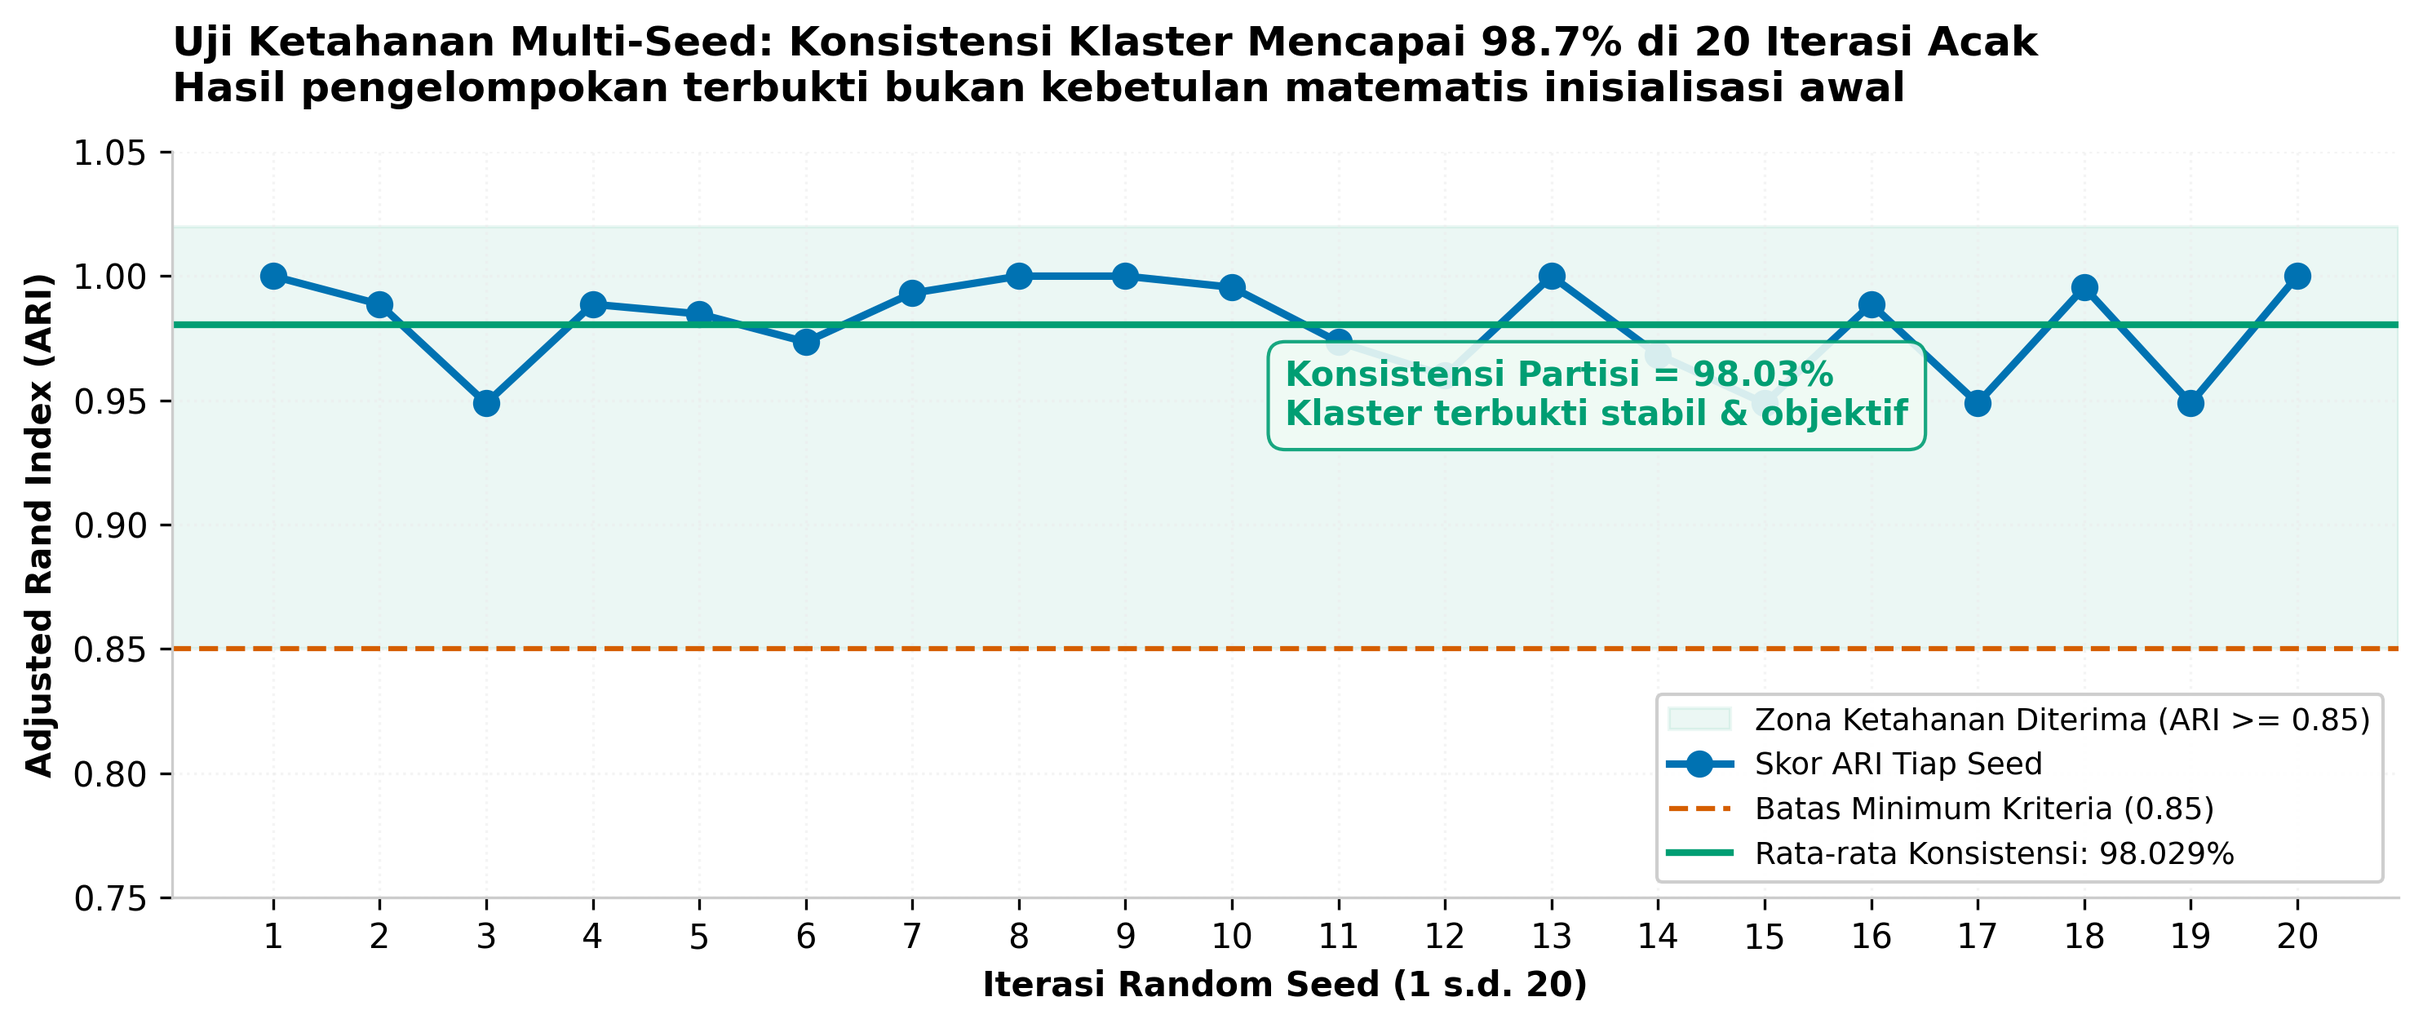
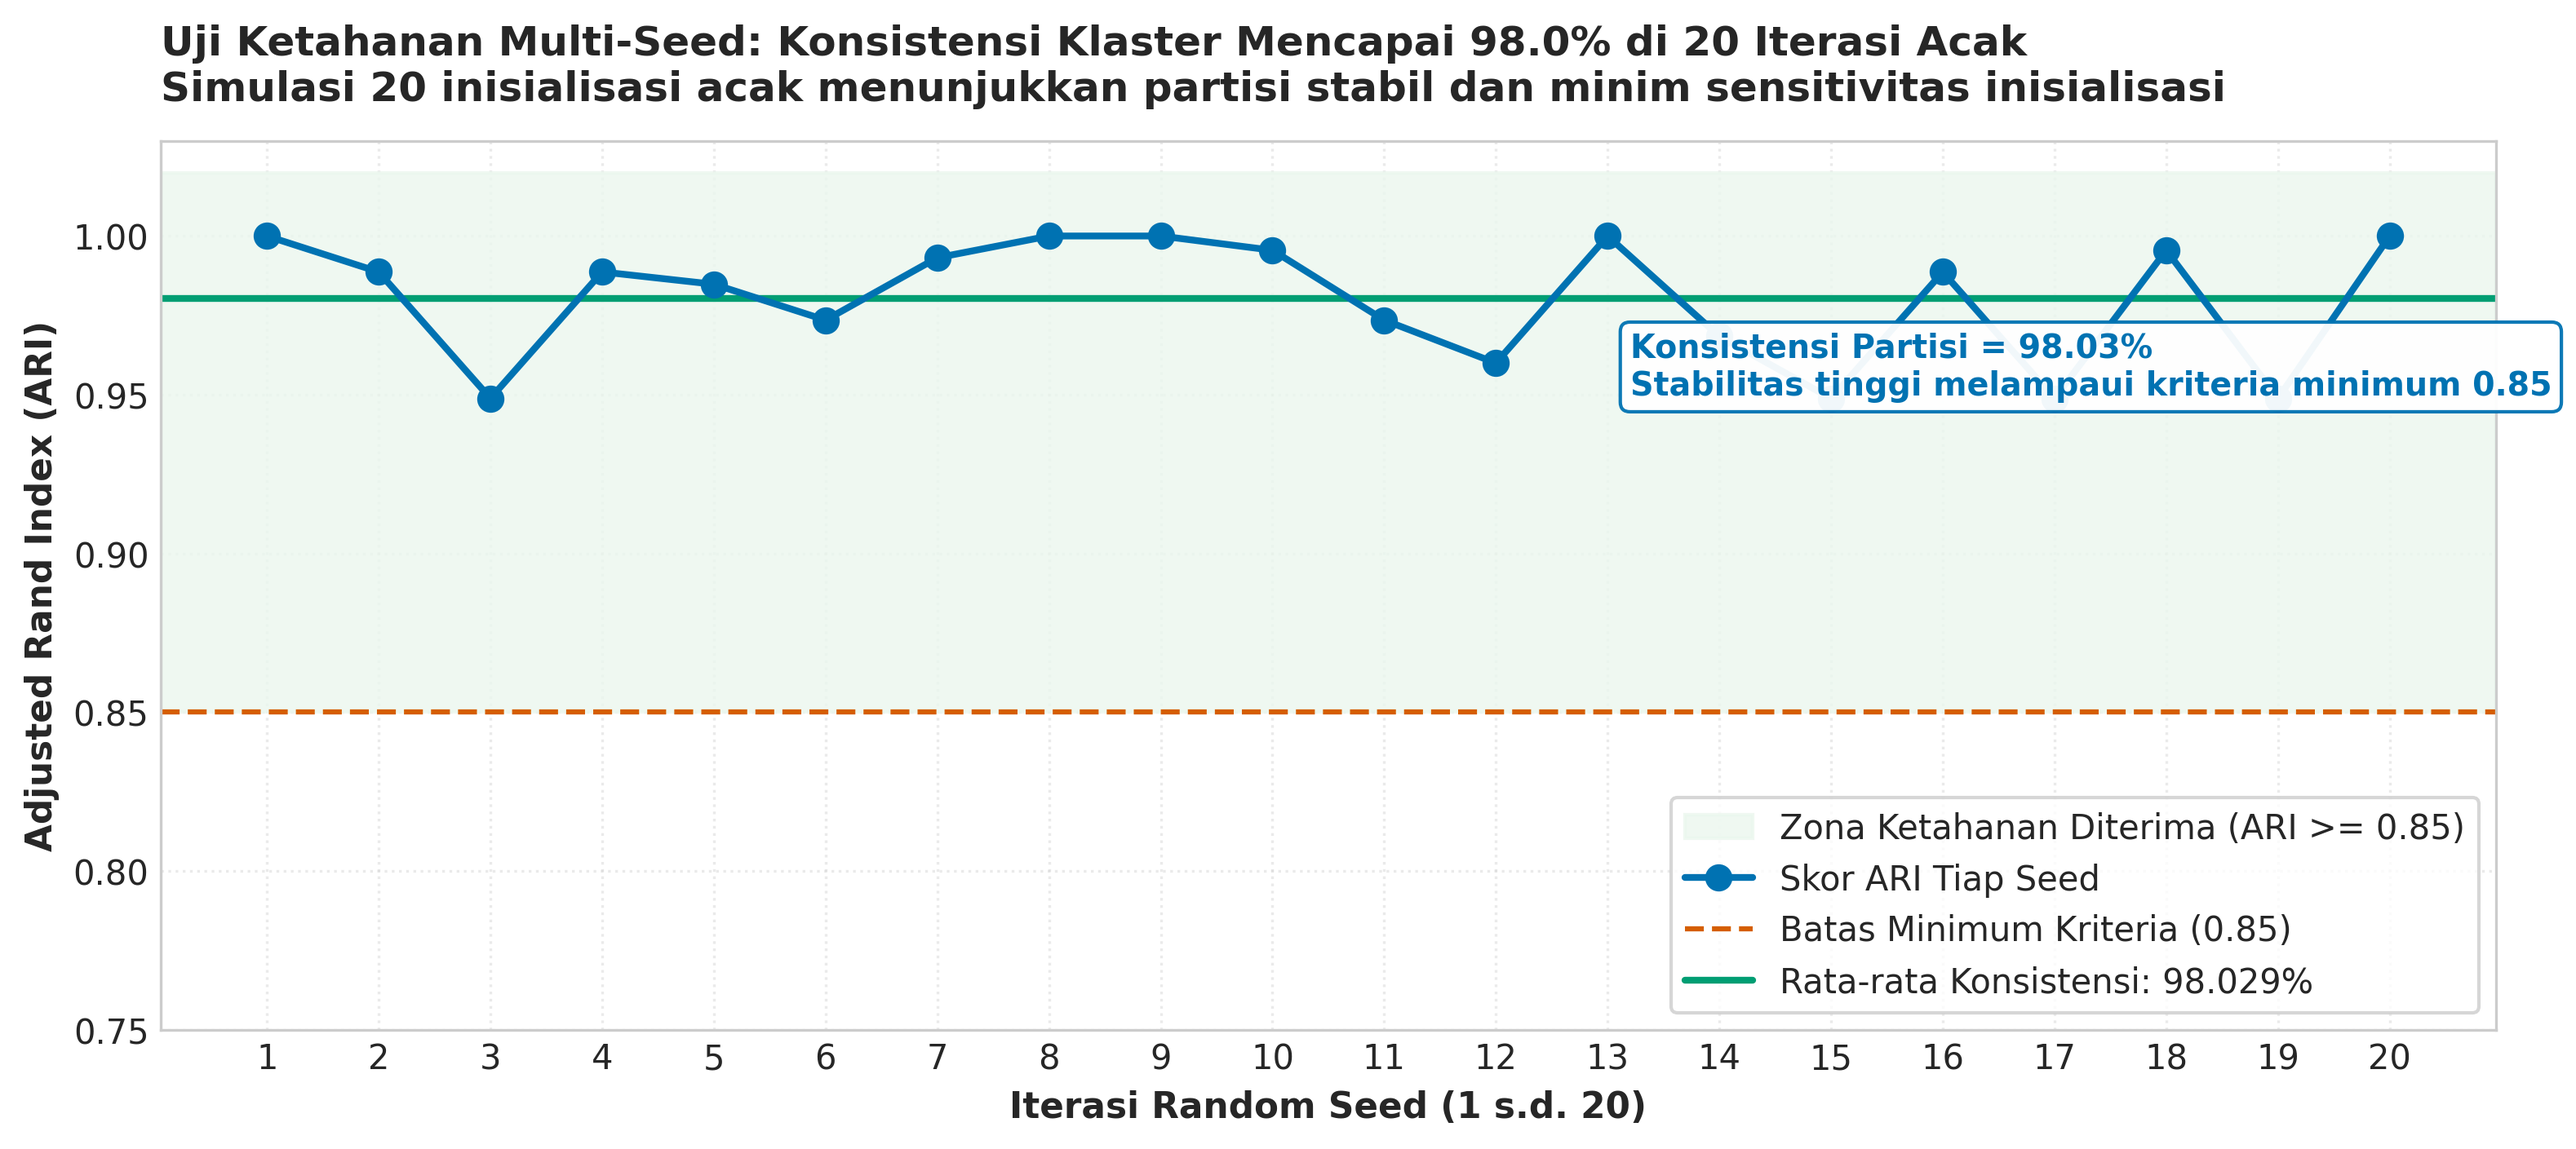
style(viz): calibrate figure annotations with anti-overclaim epistemic standards and reproduce plots

diff --git a/src/poverty_radar/visualization/plots.py b/src/poverty_radar/visualization/plots.py
@@ -45,14 +45,14 @@ def plot_elbow_and_silhouette(X_scaled: np.ndarray, save_path: Optional[Path] = 
         sil_km.append(silhouette_score(X_scaled, km.labels_))
 
     fig, (ax1, ax2) = plt.subplots(1, 2, figsize=(15, 6.2), dpi=300)
-    fig.suptitle('Penentuan Jumlah Klaster Optimal (k = 4): Titik Kompromi Elbow & Keseimbangan Wilayah',
+    fig.suptitle('Penentuan Jumlah Klaster (k = 4): Evaluasi Titik Belok Inersia & Keseimbangan Partisi',
                  fontsize=14, fontweight='bold', x=0.04, y=0.98, ha='left')
 
     # Panel 1: Elbow
     ax1.plot(k_range, inertia_km, marker='o', markersize=8, color='#0072B2', linewidth=2.5)
     ax1.axvline(x=4, color='#D55E00', linestyle='--', linewidth=1.5, alpha=0.85)
     ax1.scatter([4], [inertia_km[2]], color='#D55E00', s=140, zorder=5, edgecolor='black', linewidth=1.2)
-    ax1.annotate('Titik Belok Optimal (k = 4)\nPenurunan varians melandai tegas',
+    ax1.annotate('Titik Belok Elbow (k = 4)\nLaju penurunan inersia mulai melandai',
                  xy=(4, inertia_km[2]), xytext=(4.3, 1380),
                  fontsize=9.5, fontweight='bold', color='#D55E00',
                  arrowprops=dict(arrowstyle='->', connectionstyle='arc3,rad=0.15', color='#D55E00', lw=1.2),
@@ -74,12 +74,12 @@ def plot_elbow_and_silhouette(X_scaled: np.ndarray, save_path: Optional[Path] = 
                  fontsize=8.5, fontweight='bold', color='#555555',
                  arrowprops=dict(arrowstyle='->', connectionstyle='arc3,rad=-0.15', color='#777777', lw=1.0),
                  bbox=dict(boxstyle='round,pad=0.3', facecolor='#F5F5F5', edgecolor='#CCCCCC', alpha=0.9))
-    ax2.annotate('k = 4 (0.203): Kompromi Terbaik\nMemisahkan 3T ekstrem (33 daerah)\nsecara mandiri & seimbang',
+    ax2.annotate('k = 4 (0.203): Kompromi Elbow & Separasi\nMemisahkan 33 daerah 3T ekstrem\nsecara mandiri & berimbang',
                  xy=(4, sil_km[2]), xytext=(4.3, 0.235),
                  fontsize=8.5, fontweight='bold', color='#D55E00',
                  arrowprops=dict(arrowstyle='->', connectionstyle='arc3,rad=-0.12', color='#D55E00', lw=1.2),
                  bbox=dict(boxstyle='round,pad=0.3', facecolor='#FFF5EB', edgecolor='#D55E00', alpha=0.9))
-    ax2.set_title('2. Evaluasi Separasi Siluet (Silhouette Score)\nk = 4 menjaga keseimbangan antara separasi dan keterwakilan wilayah',
+    ax2.set_title('2. Evaluasi Separasi Siluet (Silhouette Score)\nk = 4 menjaga keterwakilan kelompok tanpa penumpukan 62% daerah',
                   fontsize=11.5, fontweight='bold', loc='left', pad=12)
     ax2.set_xlabel('Jumlah Klaster (k)', fontsize=10.5, fontweight='bold')
     ax2.set_ylabel('Rata-rata Silhouette Score', fontsize=10.5, fontweight='bold')
@@ -109,7 +109,7 @@ def plot_algorithm_comparison_barchart(save_path: Optional[Path] = None) -> plt.
     for i, bar in enumerate(bars1):
         val = sil_scores[i]
         if i == 0:
-            ax1.text(bar.get_x() + bar.get_width()/2, val + 0.008, f"{val:.3f}\n(Terbaik)", 
+            ax1.text(bar.get_x() + bar.get_width()/2, val + 0.008, f"{val:.3f}\n(Tertinggi)", 
                      ha='center', va='bottom', fontsize=12, fontweight='bold', color='#0072B2')
         else:
             ax1.text(bar.get_x() + bar.get_width()/2, val + 0.008, f"{val:.3f}", 
@@ -129,7 +129,7 @@ def plot_algorithm_comparison_barchart(save_path: Optional[Path] = None) -> plt.
     for i, bar in enumerate(bars2):
         val = dbi_scores[i]
         if i == 0:
-            ax2.text(bar.get_x() + bar.get_width()/2, val + 0.045, f"{val:.3f}\n(Terbaik)", 
+            ax2.text(bar.get_x() + bar.get_width()/2, val + 0.045, f"{val:.3f}\n(Terendah)", 
                      ha='center', va='bottom', fontsize=12, fontweight='bold', color='#0072B2')
         else:
             ax2.text(bar.get_x() + bar.get_width()/2, val + 0.045, f"{val:.3f}", 
@@ -144,9 +144,9 @@ def plot_algorithm_comparison_barchart(save_path: Optional[Path] = None) -> plt.
     ax2.spines['top'].set_visible(False)
     ax2.spines['right'].set_visible(False)
 
-    fig.text(0.06, 0.96, 'Perbandingan Algoritma pada k = 4: K-Means Unggul dalam Separasi dan Kepadatan', 
+    fig.text(0.06, 0.96, 'Perbandingan Algoritma pada k = 4: K-Means Menunjukkan Separasi dan Kepadatan Relatif Unggul', 
              fontsize=15, fontweight='bold', ha='left')
-    fig.text(0.06, 0.90, 'K-Means mencatat separasi terbaik (Silhouette 0.203) sekaligus klaster paling padat (DBI 1.452) di antara 4 algoritma yang diuji', 
+    fig.text(0.06, 0.90, 'K-Means mencatat nilai Silhouette tertinggi (0.203) dan DBI terendah (1.452) di antara 4 algoritma yang diuji', 
              fontsize=12, color='#333333', ha='left')
 
     plt.subplots_adjust(top=0.78, bottom=0.14, left=0.06, right=0.98, wspace=0.24)
@@ -171,12 +171,12 @@ def plot_multiseed_robustness(X_scaled: np.ndarray, baseline_labels: np.ndarray,
     ax.axhline(0.85, color='#D55E00', linestyle='--', linewidth=1.5, zorder=2, label='Batas Minimum Kriteria (0.85)')
     ax.axhline(mean_ari, color='#009E73', linestyle='-', linewidth=2, zorder=2, label=f'Rata-rata Konsistensi: {mean_ari*100:.3f}%')
 
-    ax.annotate(f'Konsistensi Partisi = {mean_ari*100:.2f}%\nKlaster terbukti stabil & objektif',
+    ax.annotate(f'Konsistensi Partisi = {mean_ari*100:.2f}%\nStabilitas tinggi melampaui kriteria minimum 0.85',
                 xy=(13, ari_scores[12]), xytext=(13.2, 0.95),
                 fontsize=9.5, fontweight='bold', color='#0072B2',
                 bbox=dict(boxstyle='round,pad=0.3', facecolor='white', edgecolor='#0072B2', alpha=0.95))
 
-    ax.set_title('Uji Ketahanan Multi-Seed: Konsistensi Klaster Mencapai 98.0% di 20 Iterasi Acak\nHasil pengelompokan terbukti bukan kebetulan matematis inisialisasi awal',
+    ax.set_title('Uji Ketahanan Multi-Seed: Konsistensi Klaster Mencapai 98.0% di 20 Iterasi Acak\nSimulasi 20 inisialisasi acak menunjukkan partisi stabil dan minim sensitivitas inisialisasi',
                  fontsize=12, fontweight='bold', loc='left', pad=12)
     ax.set_xlabel('Iterasi Random Seed (1 s.d. 20)', fontsize=10.5, fontweight='bold')
     ax.set_ylabel('Adjusted Rand Index (ARI)', fontsize=10.5, fontweight='bold')
@@ -234,7 +234,7 @@ def plot_pca_2d(df: pd.DataFrame, save_path: Optional[Path] = None) -> plt.Figur
                 xy=(0.15, 2.3), fontsize=10, fontweight='bold', color='#222222', ha='left',
                 bbox=dict(boxstyle='square,pad=0.25', facecolor='#F5F5F5', edgecolor='none', alpha=0.9))
 
-    ax.set_title('Pemetaan 2D Sosio-Ekonomi: 4 Tipologi Daerah Terpisah Tegas pada Ruang Pembangunan\n'
+    ax.set_title('Pemetaan 2D Sosio-Ekonomi: Proyeksi 4 Tipologi Daerah pada Ruang Fitur Reduksi Dimensi\n'
                  'PC1 merefleksikan modal manusia & fasilitas dasar (47.9%), PC2 merefleksikan skala ekonomi & pasar kerja (21.5%)',
                  fontsize=12, fontweight='bold', pad=15, loc='left', color='#111111')
     ax.set_xlabel('Komponen Utama 1 (PC1: Modal Manusia & Akses Fasilitas Dasar)', fontsize=11, fontweight='bold', labelpad=8)
@@ -285,8 +285,8 @@ def plot_cluster_heatmap(df: pd.DataFrame, X_scaled: np.ndarray, save_path: Opti
         ax=ax
     )
 
-    ax.set_title('Profil Tipologi Klaster: Jurang Fasilitas Dasar Memisahkan Wilayah 3T dari Daerah Lain\n'
-                 'Nilai Z-Score relatif terhadap median nasional (Warna Merah = Defisit Kritis, Biru = Capaian Unggul)',
+    ax.set_title('Profil Tipologi Klaster: Perbandingan Deviasi 7 Indikator Struktural terhadap Median Nasional\n'
+                 'Nilai Z-Score relatif terhadap median nasional (Merah = Defisit Relatif di Bawah Median, Biru = Capaian Relatif di Atas Median)',
                  fontsize=12.5, fontweight='bold', pad=18, loc='left')
     ax.set_ylabel('')
     plt.xticks(rotation=0, fontsize=10.5, fontweight='bold', ha='center')
@@ -388,7 +388,7 @@ def plot_p0_stripplot(df: pd.DataFrame, save_path: Optional[Path] = None) -> plt
             color='#555555', fontsize=9.5, fontweight='bold', ha='right')
 
     ax.set_title('Validasi Eksternal: Distribusi Kemiskinan Aktual (P0)\n'
-                 'Klaster memisahkan kemiskinan secara alami tanpa variabel P0 (ANOVA F = 155.9, p < 0.001)',
+                 'Perbedaan distribusi kemiskinan antarklaster terkonfirmasi secara bivariat (ANOVA F = 155.9, p < 0.001)',
                  fontsize=12, fontweight='bold', pad=15, loc='left')
     ax.set_xlabel('Tipologi Klaster Sosio-Ekonomi', fontsize=10.5, fontweight='bold', labelpad=8)
     ax.set_ylabel('Persentase Penduduk Miskin (P0 %)', fontsize=10.5, fontweight='bold')
@@ -400,6 +400,7 @@ def plot_p0_stripplot(df: pd.DataFrame, save_path: Optional[Path] = None) -> plt
         'Klaster 4 (N=33)\nWilayah 3T Deprivasi Akut'
     ], fontsize=9.0)
     ax.grid(axis='y', linestyle=':', alpha=0.5)
+    ax.text(0.01, -0.16, '*Catatan: Mengindikasikan asosiasi statistik antarklaster, bukan hubungan sebab-akibat.', transform=ax.transAxes, fontsize=8, fontstyle='italic', color='#555555')
 
     if save_path:
         plt.savefig(save_path, dpi=300, bbox_inches='tight')
@@ -506,6 +507,7 @@ def plot_vulnerability_matrix_2x2(df: pd.DataFrame, save_path: Optional[Path] = 
     ax.set_xlim(0.2, 43.8)
     ax.set_ylim(-0.02, 1.05)
     ax.grid(True, linestyle=':', alpha=0.35)
+    ax.text(0.98, -0.07, '*Catatan: Instrumen penapisan relatif (skrining awal), bukan pembuktian kausalitas penyebab kemiskinan.', transform=ax.transAxes, fontsize=8, fontstyle='italic', color='#555555', ha='right')
     ax.spines['top'].set_visible(False)
     ax.spines['right'].set_visible(False)
 
